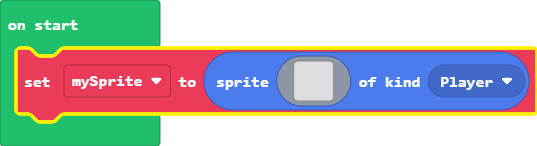
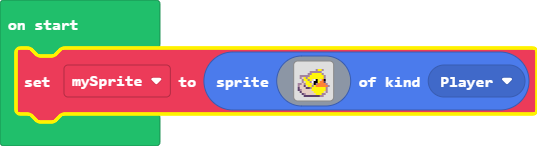
Update main.blocks, main.ts

Changed region(s): [[0.5363, 0.4658, 0.6257, 0.6849]]

diff --git a/main.ts b/main.ts
@@ -1,18 +1,18 @@
 let mySprite = sprites.create(img`
     . . . . . . . . . . . . . . . . 
     . . . . . . . . . . . . . . . . 
-    . . . . . . . . . . . . . . . . 
-    . . . . . . . . . . . . . . . . 
-    . . . . . . . . . . . . . . . . 
-    . . . . . . . . . . . . . . . . 
-    . . . . . . . . . . . . . . . . 
-    . . . . . . . . . . . . . . . . 
-    . . . . . . . . . . . . . . . . 
-    . . . . . . . . . . . . . . . . 
-    . . . . . . . . . . . . . . . . 
-    . . . . . . . . . . . . . . . . 
-    . . . . . . . . . . . . . . . . 
-    . . . . . . . . . . . . . . . . 
-    . . . . . . . . . . . . . . . . 
-    . . . . . . . . . . . . . . . . 
+    . . . . . . . . . b 5 5 b . . . 
+    . . . . . . b b b b b b . . . . 
+    . . . . . b b 5 5 5 5 5 b . . . 
+    . b b b b b 5 5 5 5 5 5 5 b . . 
+    . b d 5 b 5 5 5 5 5 5 5 5 b . . 
+    . . b 5 5 b 5 d 1 f 5 d 4 f . . 
+    . . b d 5 5 b 1 f f 5 4 4 c . . 
+    b b d b 5 5 5 d f b 4 4 4 4 b . 
+    b d d c d 5 5 b 5 4 4 4 4 4 4 b 
+    c d d d c c b 5 5 5 5 5 5 5 b . 
+    c b d d d d d 5 5 5 5 5 5 5 b . 
+    . c d d d d d d 5 5 5 5 5 d b . 
+    . . c b d d d d d 5 5 5 b b . . 
+    . . . c c c c c c c c b b . . . 
     `, SpriteKind.Player)
